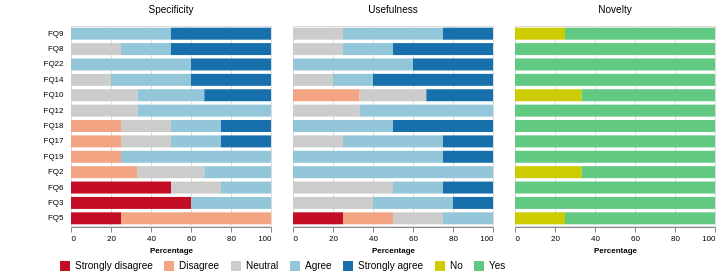
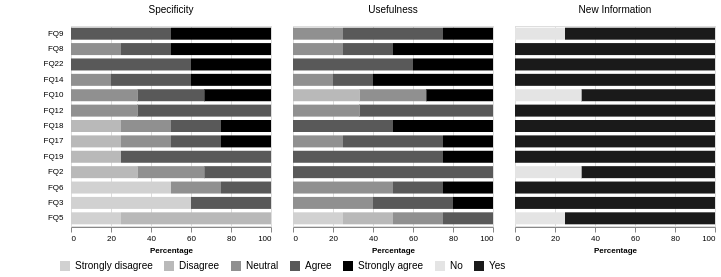
visualization images updated

diff --git a/visualization/follow_up_questions.py b/visualization/follow_up_questions.py
@@ -1,3 +1,4 @@
+import csv
 import logging
 import time
 from datetime import datetime, timedelta
@@ -6,182 +7,17 @@ from string import Template
 import requests
 from nltk import sent_tokenize
 
-from data_generation.calculator import Calculator
-from data_scraper.github_repo_finder import get_contributors
-from utils import question_identifier
+from future.src.data_generation.calculator import Calculator
 
-logger = logging.getLogger('follow-up-questions')
-headers = {"Authorization": "Bearer a4a37bc57f01dfef13d3c5f629dbc51800d554ca"}
-
-repos = [
-    'golang/go', 'kubernetes/kubernetes', 'rust-lang/rust', 'ansible/ansible', 'microsoft/TypeScript',
-    'elastic/elasticsearch', 'godotengine/godot', 'saltstack/salt', 'angular/angular', 'moby/moby']
-
-query_template = Template("""
-{
-  rateLimit {
-    cost
-    remaining
-    resetAt
-  }
-  repository(owner: "$owner", name: "$name") {
-   issues(first: $n, filterBy: {states:CLOSED, labels: ["bug", "Bug", ">bug", "crash", "type: bug/fix","kind/bug", "WaitingForInfo", "UX", "NeedsInvestigation", "NeedsFix", "kind/bug", "C-bug", "I-ICE"]}){
-    totalCount
-    nodes{
-      ... on Issue{
-        number
-        title
-        body
-        createdAt
-        author {
-          login
-        }
-        comments(first:20){
-          nodes{
-            ... on IssueComment{
-              author{
-                login
-              }
-              createdAt
-              body
-            }
-          }
-        }
-      }
-    }
-  } 
-  }
-}
-""")
-
-
-def extract_data(issue):
-    comment_count = 0
-    after_question = 0
-    has_follow_up_question = False
-    has_follow_up_answer = False
+def extract_data(answer):
     is_OB_EB_S2R = False
-    follow_up_question = ''
-    follow_up_question_reply = ''
-
-    if len(issue['comments']['nodes']) < 2 or issue['body'] is None or issue['author'] is None:
-        return None
-
-    comments = issue['comments']['nodes']
-    for comment in comments:
-        # comment within 60 days of issue creation
-        d1 = datetime.strptime(comment['createdAt'], "%Y-%m-%dT%H:%M:%SZ")
-        d2 = datetime.strptime(issue['createdAt'], "%Y-%m-%dT%H:%M:%SZ")
-        if d1 - d2 > timedelta(days=60):
-            continue
-
-        if not has_follow_up_question and comment_count < 3:
-            if comment['author'] is None:
-                continue
-            comment_count = comment_count + 1
-            # if comment author and issue author are same, then discard the comment
-            if comment['author']['login'] == issue['author']['login']:
-                continue
-            follow_up_question = comment['body']
-            for sentence in sent_tokenize(comment['body']):
-                sentence = sentence.strip()
-                if sentence.startswith(">") is True:
-                    continue
-                elif question_identifier(sentence) is True:
-                    # if sentence starts with @someone, check if this @someone is original issue author or not
-                    if sentence.startswith("@"):
-                        mentioned_login = sentence.split()[0]
-                        github_login = "@{0}".format(issue['author']['login'])
-                        if mentioned_login != github_login:
-                            break
-                    has_follow_up_question = True
-                    idx = comment['body'].find(sentence)
-                    follow_up_question = comment['body'][idx:]
-                    after_question = 0
-                    break
-        elif has_follow_up_question and after_question < 3:
-            after_question = after_question + 1
-            if issue['author']['login'] == comment['author']['login']:
-                has_follow_up_answer = True
-                follow_up_question_reply = comment['body']
-                break
-
-    if has_follow_up_question and has_follow_up_answer:
-        # filter by word count and #characters
-        comment_array = follow_up_question.split()
-        if len(comment_array) > 30 or len(follow_up_question) > 300:
-            return False, False, False
-
-        calc = Calculator(threshold=0)
-        if calc.utility(issue['number'], follow_up_question_reply, '') > 0:
-            is_OB_EB_S2R = True
-
-    return has_follow_up_question, has_follow_up_answer, is_OB_EB_S2R
-
-
-def get_issues(owner, repo, n):
-    failed_cnt = 0
-    while failed_cnt < 20:
-        query = query_template.substitute(owner=owner, name=repo, n=n)
-        request = requests.post('https://api.github.com/graphql', json={'query': query}, headers=headers)
-
-        if request.status_code == 200:
-            return request.json()['data']['repository']['issues']['nodes']
-        elif request.status_code == 502:
-            logger.info("Query failed to run by returning code of 502. Try again in 30s...")
-            time.sleep(30)
-            failed_cnt += 1
-            continue
-        elif request.status_code == 403:
-            logger.info('Abusive behaviour mechanism was triggered. Wait 3 min.')
-            time.sleep(180)
-            failed_cnt += 1
-            continue
-        else:
-            raise Exception(
-                "Query failed to run by returning code of {0}.".format(request.status_code))
-
-    if failed_cnt == 20:
-        logger.info('Cannot process query {0}'.format(query))
-
-
-# R = the set of top 10 (listed below) repositories:
-# for each repo's r in R:
-#     B = set of 50 most recently reported issues
-#     for each issue b in B:
-#         y = determine if b contains a follow-up question
-#         if y:
-#             x = determine if the follow-up question is answered on unanswered
-#             if x:
-#                  z = does the answer to the follow-up question contain OB, EB or S2R
-# return x, y, z for each r
+    calc = Calculator(threshold=0)
+    if calc.utility(1234, answer, '') > 0:
+        is_OB_EB_S2R = True
+    return is_OB_EB_S2R
 
 
 if __name__ == '__main__':
-    n = 100
-    results = dict()
-
-    for repo in repos:
-        logger.info('Processing {0}'.format(repo))
-        results[repo] = (list(), list(), list())
-        owner, name = repo.split('/')
-        issues = get_issues(owner, name, n)
-        #contributors = get_contributors('///'+repo)
-        for issue in issues:
-
-            #filter out issues created by devs
-            if issue['author'] is None: #or issue['author']['login'] in contributors:
-                continue
-
-            data = extract_data(issue)
-            if data is None:
-                continue
-            results[repo][0].append(data[0])
-            results[repo][1].append(data[1])
-            results[repo][2].append(data[2])
-
-        # plot(results['repo'])
-        # print('{0}'.format(results[repo]))
-        print(
-            'Repo {0} has {1}/{2} follow-up questions, {3}/{1} has been answered, {4}/{3} answers has OB/EB/S2R'.format(
-                repo, sum(results[repo][0]), len(results[repo][0]), sum(results[repo][1]), sum(results[repo][2])))
+    with open('data.txt', 'r') as file:
+        data = file.read().replace('\n', '')
+        print(extract_data(data))

diff --git a/visualization/visualization_per_br.py b/visualization/visualization_per_br.py
@@ -19,7 +19,7 @@ def main(args):
             "No",
             "Yes"
         ],
-        range=["#c30d24", "#f3a583", "#cccccc", "#94c6da", "#1770ab", "#CCCC00", "#62c983"]
+        range=['#d1d1d1', '#b9b9b9', '#909090', '#595959', '#000000', '#e4e4e4', '#1a1a1a', ]
     )
 
     y_axis = alt.Axis(
@@ -29,7 +29,7 @@ def main(args):
         minExtent=60,
         domain=False
     )
-
+    fontSize = 8
     chart = alt.Chart(source).mark_bar(size=12).encode(
         x=alt.X('percentage:Q', title='Percentage',
                 axis=alt.Axis(format='.0f')),
@@ -49,23 +49,22 @@ def main(args):
         width=200,
         height=200
     ).facet(
-        column=alt.Column("quality:N", title=None, sort=["Specificity", "Usefulness", "Novelty"])
-    )
-
-    combined = chart
-    fontSize = 8
-    combined = combined.configure_axis(
+        column=alt.Column("quality:N", title=None, sort=["Specificity", "Usefulness", "New Information"])
+    ).configure_axis(
         labelFontSize=fontSize,
         titleFontSize=fontSize,
     ).configure_text(
         fontSize=fontSize
     )
+    chart.show()
 
-    combined.show()
 
+import bokeh.palettes as bp
 
 if __name__ == '__main__':
     argparser = argparse.ArgumentParser(sys.argv[0])
+
+    print(bp.Greys3)
 
     argparser.add_argument("--input_file", type=str, default='survey_report.csv')
 

diff --git a/visualization/visualization_novelty.py b/visualization/visualization_novelty.py
@@ -11,22 +11,29 @@ alt.renderers.enable('altair_viewer')
 def main(args):
     df = pd.DataFrame({'Org': ['New Information', 'New Information'],
                        'response': ['Yes', 'No'],
-                       'percent': [94.42, 5.58],
-                       'value': [4, 60],
-                       'position': [2.5, 8.5]})
+                       'percent': [91.53, 8.47],
+                       'value': [5, 59],
+                       'position': [2.5, 10.5]})
 
     color_scale = alt.Scale(
         domain=[
             "No",
             "Yes"
         ],
-        range=["#CCCC00", "#62c983"]
-        # range=["#c30d24", "#1770ab"]
+        range=['#e4e4e4', '#1a1a1a']
+    )
+
+    y_axis = alt.Axis(
+        title='',
+        offset=5,
+        ticks=False,
+        minExtent=60,
+        domain=False
     )
 
     chart = alt.Chart(df).mark_bar(size=12).encode(
         x=alt.X('percent', title='Percentage'),
-        y=alt.Y('Org', title=''),
+        y=alt.Y('Org', title='', axis=y_axis),
         order=alt.Order(
             'percent',
             sort='ascending'

diff --git a/visualization/visualization_specificity_usefulness.py b/visualization/visualization_specificity_usefulness.py
@@ -33,7 +33,7 @@ def main(args):
             "Agree",
             "Strongly agree"
         ],
-        range=["#c30d24", "#f3a583", "#cccccc", "#94c6da", "#1770ab"]
+        range=['#d1d1d1', '#b9b9b9', '#909090', '#595959', '#000000', ]
     )
 
     y_axis = alt.Axis(
@@ -46,7 +46,7 @@ def main(args):
 
     chart = alt.Chart(source).mark_bar(size=12).encode(
         x=alt.X('percentage:Q', title='Percentage'),
-        y=alt.Y('question:N', axis=y_axis, sort=["Usefulness","Specificity"]),
+        y=alt.Y('question:N', axis=y_axis, sort=["Usefulness", "Specificity"]),
         color=alt.Color(
             'type:N',
             legend=alt.Legend(orient='bottom', title='', padding=-12),
@@ -60,7 +60,7 @@ def main(args):
 
     text = alt.Chart(source).mark_text(dx=6, color='white').encode(
         x=alt.X('Percentage start:Q', title=''),
-        y=alt.Y('question:N', sort=["Usefulness","Specificity"] ),
+        y=alt.Y('question:N', sort=["Usefulness", "Specificity"]),
         detail='type:N',
         text=alt.Text('value:Q', format='.0f'),
     )
